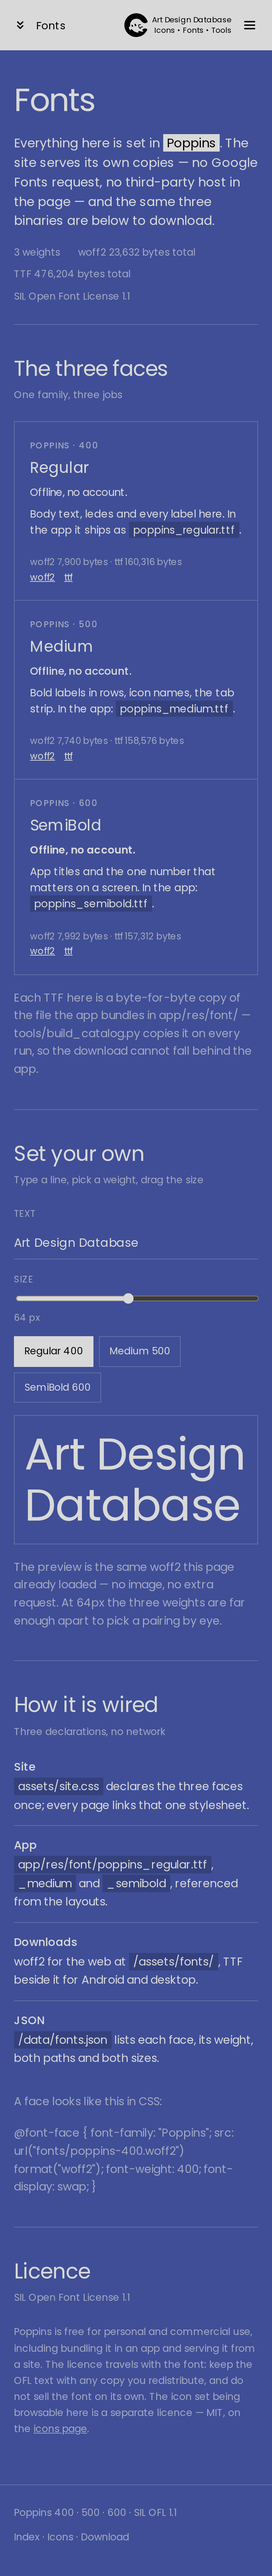
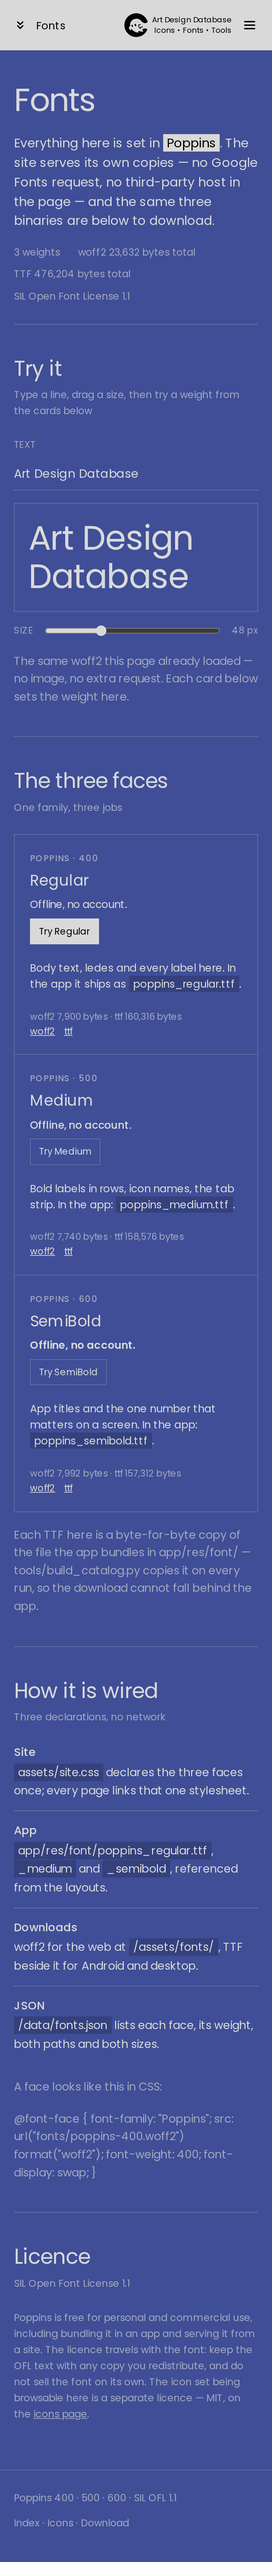
Move the type preview to the top and try weights from the cards
One fixed specimen per card answered "what do these look like" but not "what would
my line look like". The typed line, size slider and preview now sit above the
faces, and each card carries a Try button that sets the weight there -- so the
comparison happens in one place instead of three. The phone default is 48px so a
word no longer splits mid-way, and captures can stay out of docs entirely with
RENDERS_NO_GALLERY=1.

diff --git a/docs/fonts/index.html b/docs/fonts/index.html
@@ -17,19 +17,17 @@
   }
   .card .tag a { color: var(--on); }
   .card .tag a + a { margin-left: 10px; }
-  .trybar { display: grid; grid-template-columns: minmax(0, 1fr) minmax(180px, 260px); gap: 18px; align-items: end; margin: 0 0 16px; }
-  .trybar label { display: grid; gap: 7px; font-size: 13px; letter-spacing: .04em; text-transform: uppercase; color: var(--on-dim); }
-  .trybar input[type="text"] { font: inherit; font-size: 17px; letter-spacing: 0; text-transform: none; color: var(--on); background: transparent; border: 0; border-bottom: 1px solid var(--rule); padding: 9px 0; }
-  .trybar input[type="text"]:focus-visible { outline: 2px solid var(--band); outline-offset: 2px; }
-  .trybar input[type="range"] { width: 100%; accent-color: var(--band); }
-  .trybar output { font-size: 13px; letter-spacing: .04em; text-transform: none; color: var(--on-dim); }
-  .tryweights { display: flex; flex-wrap: wrap; gap: 8px; margin: 0 0 18px; }
-  .tryweights button { font: inherit; font-size: 14px; padding: 9px 14px; color: var(--on); background: transparent; border: 1px solid var(--rule); cursor: pointer; }
-  .tryweights button[aria-pressed="true"] { color: var(--ink); background: var(--band); border-color: var(--band); }
-  .tryweights button:focus-visible { outline: 2px solid var(--band); outline-offset: -3px; }
-  .trystage { border: 1px solid var(--rule); padding: 22px 20px; overflow: hidden; }
-  .trystage p { margin: 0; line-height: 1.15; letter-spacing: -.02em; overflow-wrap: anywhere; }
-  @media (max-width: 700px) { .trybar { grid-template-columns: 1fr; } .trystage { padding: 18px 14px; } }
+  .trytext { display: grid; gap: 7px; max-width: 520px; font-size: 13px; letter-spacing: .04em; text-transform: uppercase; color: var(--on-dim); }
+  .trytext input { font: inherit; font-size: 17px; letter-spacing: 0; text-transform: none; color: var(--on); background: transparent; border: 0; border-bottom: 1px solid var(--rule); padding: 9px 0; }
+  .trytext input:focus-visible { outline: 2px solid var(--band); outline-offset: 2px; }
+  .trystage { margin: 18px 0 0; border: 1px solid var(--rule); padding: 22px 20px; overflow: hidden; }
+  .trystage p { margin: 0; line-height: 1.15; letter-spacing: -.02em; overflow-wrap: break-word; }
+  .trysize { display: flex; align-items: center; gap: 14px; max-width: 520px; margin: 16px 0 0; font-size: 13px; letter-spacing: .04em; text-transform: uppercase; color: var(--on-dim); }
+  .trysize input { flex: 1; accent-color: var(--band); }
+  .trysize output { text-transform: none; letter-spacing: .04em; }
+  .try-weight { align-self: flex-start; font: inherit; font-size: 13px; margin: 0 0 14px; padding: 7px 12px; color: var(--on); background: transparent; border: 1px solid var(--rule); cursor: pointer; }
+  .try-weight[aria-pressed="true"] { color: var(--ink); background: var(--band); border-color: var(--band); }
+  .try-weight:focus-visible { outline: 2px solid var(--band); outline-offset: -3px; }
 </style>
 </head>
 <body>
@@ -95,6 +93,23 @@
     </p>
   </header>
 
+  <section id="try">
+    <h2>Try it</h2>
+    <p class="kicker">Type a line, drag a size, then try a weight from the cards below</p>
+    <label class="trytext" for="tryText">Text
+      <input id="tryText" type="text" value="Art Design Database" maxlength="80" autocomplete="off" spellcheck="false" />
+    </label>
+    <div class="trystage" id="tryStage">
+      <p id="tryOut" style="font-weight:400;font-size:48px">Art Design Database</p>
+    </div>
+    <div class="trysize">
+      <label for="trySize">Size</label>
+      <input id="trySize" type="range" min="16" max="120" step="1" value="48" />
+      <output id="trySizeOut" for="trySize">48 px</output>
+    </div>
+    <p class="fine">The same woff2 this page already loaded — no image, no extra request. Each card below sets the weight here.</p>
+  </section>
+
   <section>
     <h2>The three faces</h2>
     <p class="kicker">One family, three jobs</p>
@@ -103,6 +118,7 @@
         <span class="kind">Poppins · 400</span>
         <h3>Regular</h3>
         <p class="specimen" style="font-weight:400">Offline, no account.</p>
+        <button type="button" class="try-weight" data-weight="400" aria-pressed="true">Try Regular</button>
         <p>Body text, ledes and every label here. In the app it ships as <code>poppins_regular.ttf</code>.</p>
         <span class="tag">woff2 7,900 bytes · ttf 160,316 bytes<br />
           <a href="../assets/fonts/poppins-400.woff2" download>woff2</a>
@@ -113,6 +129,7 @@
         <span class="kind">Poppins · 500</span>
         <h3>Medium</h3>
         <p class="specimen" style="font-weight:500">Offline, no account.</p>
+        <button type="button" class="try-weight" data-weight="500" aria-pressed="false">Try Medium</button>
         <p>Bold labels in rows, icon names, the tab strip. In the app: <code>poppins_medium.ttf</code>.</p>
         <span class="tag">woff2 7,740 bytes · ttf 158,576 bytes<br />
           <a href="../assets/fonts/poppins-500.woff2" download>woff2</a>
@@ -123,6 +140,7 @@
         <span class="kind">Poppins · 600</span>
         <h3>SemiBold</h3>
         <p class="specimen" style="font-weight:600">Offline, no account.</p>
+        <button type="button" class="try-weight" data-weight="600" aria-pressed="false">Try SemiBold</button>
         <p>App titles and the one number that matters on a screen. In the app: <code>poppins_semibold.ttf</code>.</p>
         <span class="tag">woff2 7,992 bytes · ttf 157,312 bytes<br />
           <a href="../assets/fonts/poppins-600.woff2" download>woff2</a>
@@ -131,29 +149,6 @@
       </div>
     </div>
     <p class="fine">Each TTF here is a byte-for-byte copy of the file the app bundles in <code>app/res/font/</code> — <code>tools/build_catalog.py</code> copies it on every run, so the download cannot fall behind the app.</p>
-  </section>
-
-  <section>
-    <h2>Set your own</h2>
-    <p class="kicker">Type a line, pick a weight, drag the size</p>
-    <div class="trybar">
-      <label for="tryText">Text
-        <input id="tryText" type="text" value="Art Design Database" maxlength="80" autocomplete="off" spellcheck="false" />
-      </label>
-      <label for="trySize">Size
-        <input id="trySize" type="range" min="16" max="120" step="1" value="64" />
-        <output id="trySizeOut" for="trySize">64 px</output>
-      </label>
-    </div>
-    <div class="tryweights" role="group" aria-label="Weight">
-      <button type="button" data-weight="400" aria-pressed="true">Regular 400</button>
-      <button type="button" data-weight="500" aria-pressed="false">Medium 500</button>
-      <button type="button" data-weight="600" aria-pressed="false">SemiBold 600</button>
-    </div>
-    <div class="trystage" id="tryStage">
-      <p id="tryOut" style="font-weight:400;font-size:64px">Art Design Database</p>
-    </div>
-    <p class="fine">The preview is the same woff2 this page already loaded — no image, no extra request. At 64px the three weights are far enough apart to pick a pairing by eye.</p>
   </section>
 
   <section>
@@ -187,7 +182,7 @@
   var size = document.getElementById("trySize");
   var sizeOut = document.getElementById("trySizeOut");
   var out = document.getElementById("tryOut");
-  var weights = Array.prototype.slice.call(document.querySelectorAll(".tryweights button"));
+  var buttons = Array.prototype.slice.call(document.querySelectorAll(".try-weight"));
   var weight = 400;
   function paint() {
     out.textContent = text.value.trim() || "Poppins";
@@ -197,10 +192,10 @@
   }
   text.addEventListener("input", paint);
   size.addEventListener("input", paint);
-  weights.forEach(function (button) {
+  buttons.forEach(function (button) {
     button.addEventListener("click", function () {
       weight = button.getAttribute("data-weight");
-      weights.forEach(function (other) { other.setAttribute("aria-pressed", other === button ? "true" : "false"); });
+      buttons.forEach(function (other) { other.setAttribute("aria-pressed", other === button ? "true" : "false"); });
       paint();
     });
   });

diff --git a/tools/render_pages.js b/tools/render_pages.js
@@ -153,6 +153,14 @@ const escape = (s) => s.replace(/&/g, "&amp;").replace(/</g, "&lt;").replace(/"/
   console.log("console errors:", errors.length ? errors : "none");
   await browser.close();
 
+  if (process.env.RENDERS_NO_GALLERY === "1") {
+    // Captures stay where they were taken: nothing enters docs/, so nothing has to
+    // be deployed or released just to look at them.
+    console.log(`renders left in ${out}; docs/renders untouched (RENDERS_NO_GALLERY=1)`);
+    await browser.close();
+    process.exit(0);
+  }
+
   // Copy the shots in and rebuild the gallery, so the folder and the page agree.
   // The captures go in as lossless WebP: same pixels, about a third of the bytes,
   // which is what keeps the whole site inside the host's 10 MiB deploy budget.

diff --git a/AGENTS.md b/AGENTS.md
@@ -47,6 +47,9 @@ that text changed.
   hand if `assets/logo.svg` changes.
 - Only then copy into `docs/renders/`, add it to `docs/renders/index.html`, and
   deploy -- the gallery only shows files listed there.
+- To look at captures without publishing anything, set `RENDERS_NO_GALLERY=1` on
+  `tools/render_pages.js`: the shots stay in `artifacts/`, `docs/renders/` is left
+  alone, and no deploy or release is involved.
 
 ### Renders are captures, never drawings
 
